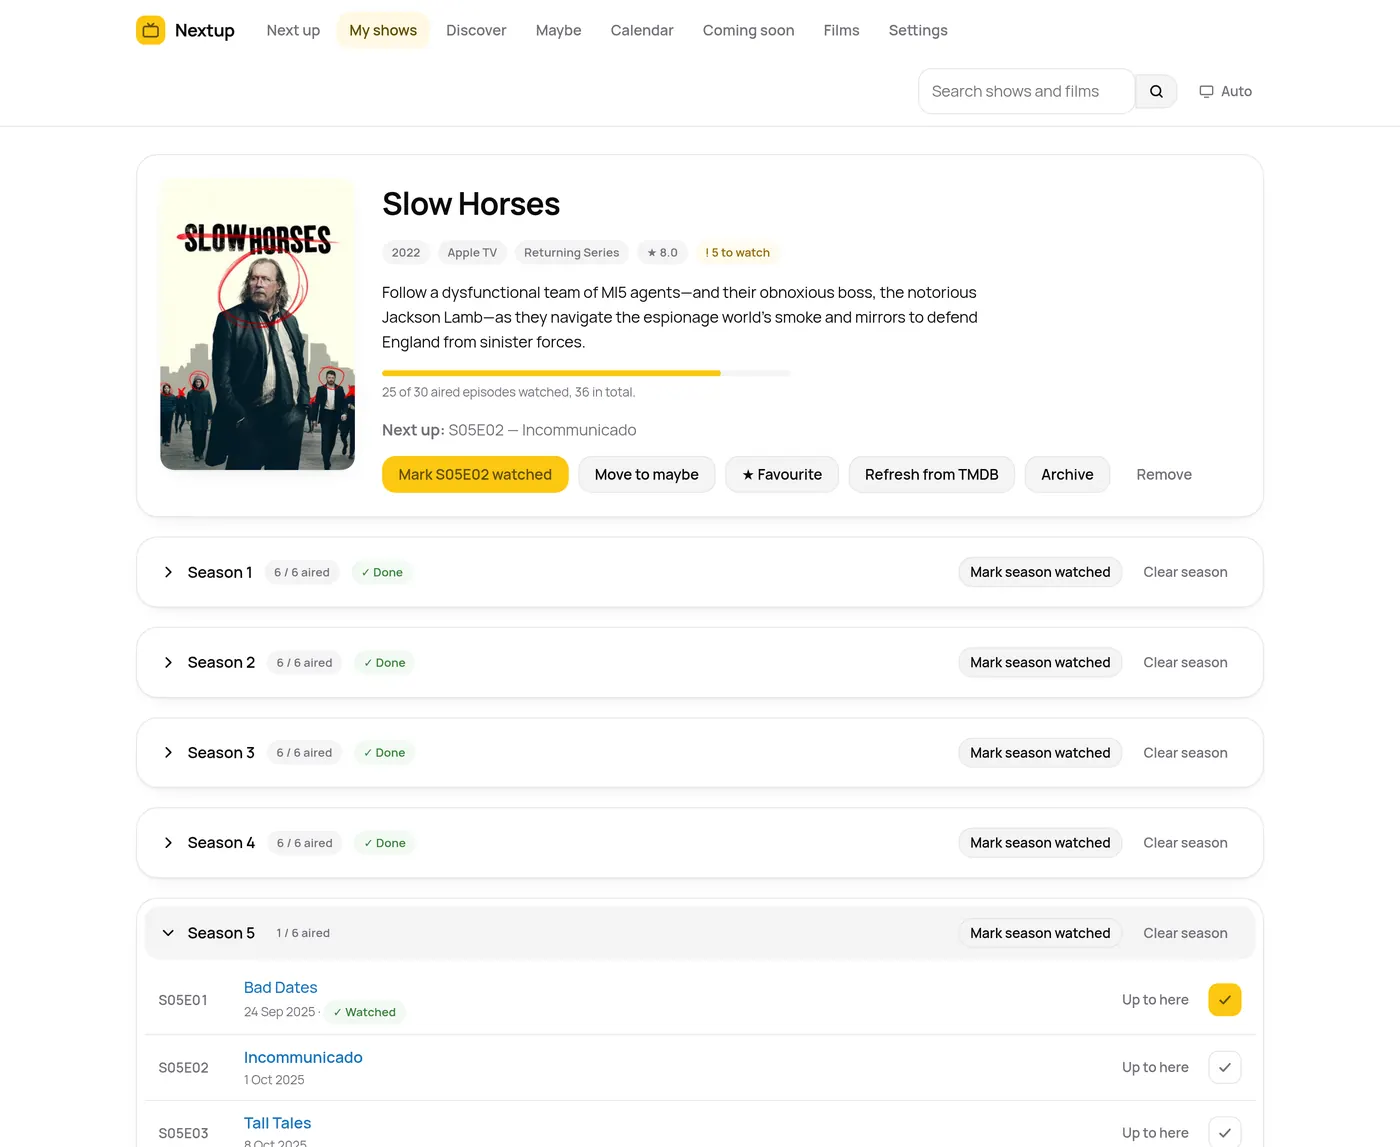
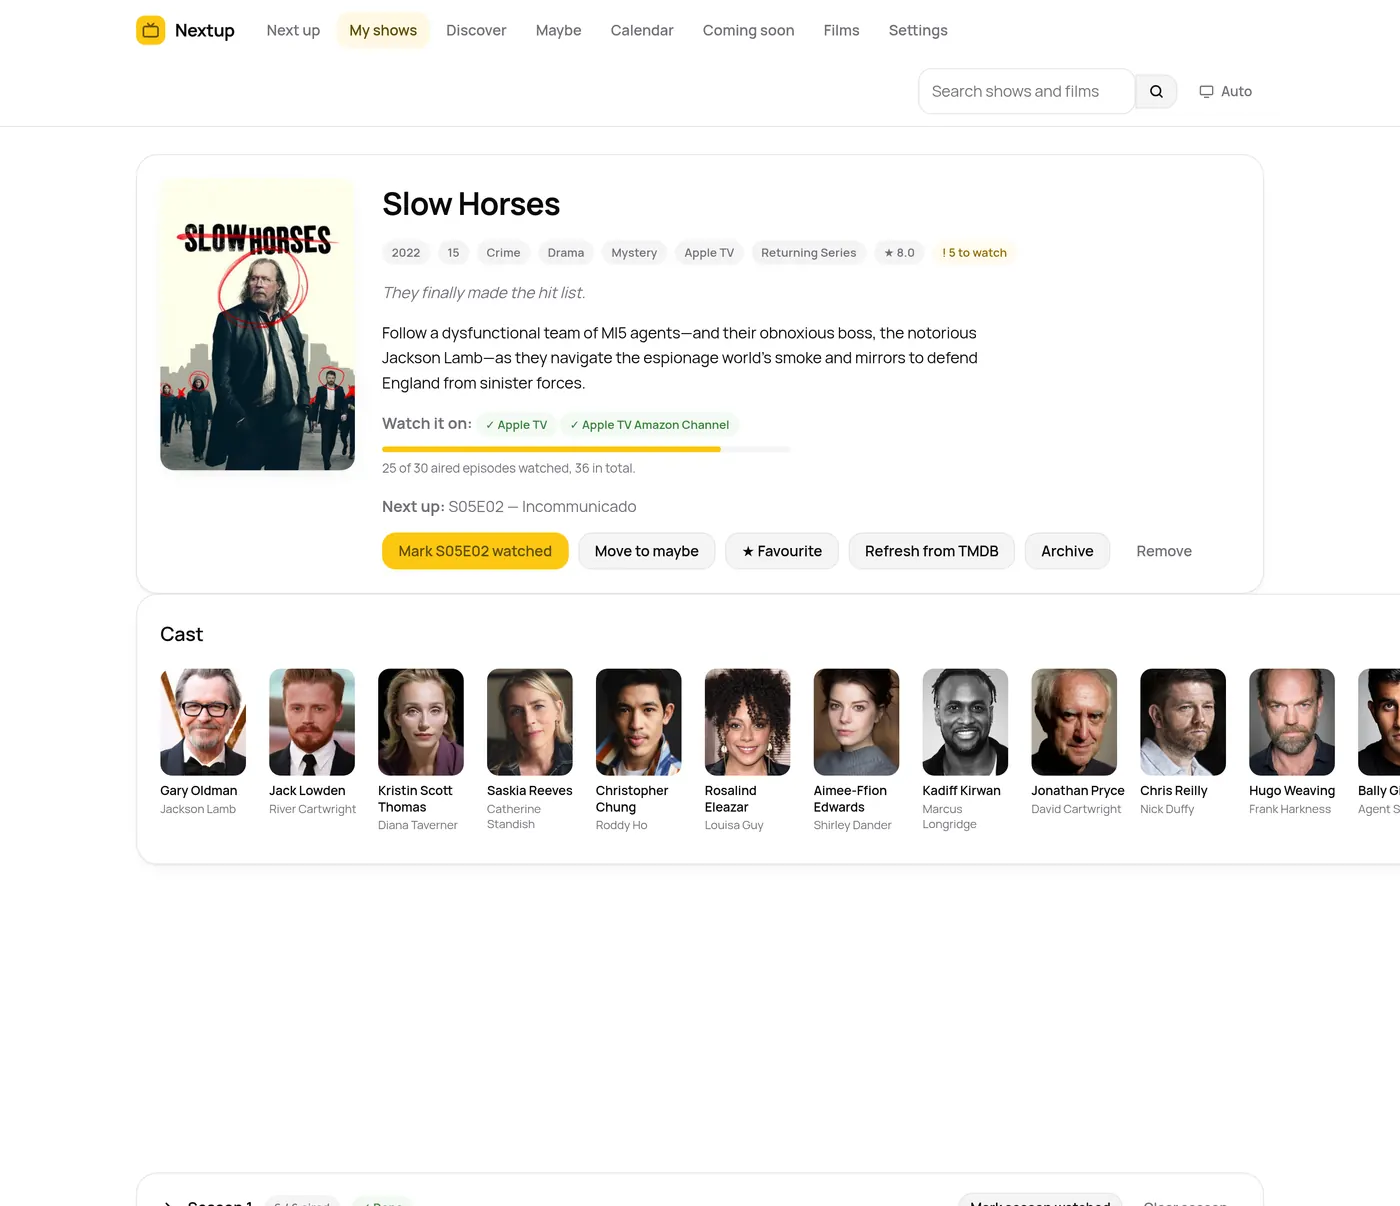
Site: cover Discover, episode pages and cast, and fix a mobile overflow
The responsive sweep found the page scrolling sideways at 440px and below,
stuck at a fixed 473px whatever the viewport. A grid track will not shrink
below its content unless told to, so the widest code block in the install
steps was setting the width of the whole list. Fixed at every level between
the list and the block, so the block now scrolls inside itself.

Accessibility: three text shades were a shade too pale on the grey bands
and were darkened, two footer headings were at the wrong level, and the
wordmark was too small to tap. The accessibility statement is written from
what the audit actually found.

Vitals: real time elements for the last-updated dates, WebSite structured
data, dateModified, an email and a Companies House link in the footer, and
an llms.txt.

diff --git a/docs/index.html b/docs/index.html
@@ -38,14 +38,27 @@
       "license": "https://www.gnu.org/licenses/gpl-3.0.html",
       "softwareVersion": "0.4.0",
       "codeRepository": "https://github.com/lightmorphic/nextup",
+      "dateModified": "2026-09-02",
       "programmingLanguage": "Python",
       "isAccessibleForFree": true,
       "offers": { "@type": "Offer", "price": "0", "priceCurrency": "GBP" },
       "author": { "@id": "https://lightmorphic.com/#organisation" }
     },
     {
+      "@type": "WebSite",
+      "@id": "https://nextup.lightmorphic.com/#website",
+      "name": "Nextup",
+      "url": "https://nextup.lightmorphic.com/",
+      "description": "A self-hosted tracker for the TV shows and films you watch.",
+      "inLanguage": "en-GB",
+      "dateModified": "2026-09-02",
+      "publisher": { "@id": "https://lightmorphic.com/#organisation" }
+    },
+    {
       "@type": "Organization",
       "@id": "https://lightmorphic.com/#organisation",
+      "email": "hello@lightmorphic.co.uk",
+      "identifier": "17423646",
       "name": "Lightmorphic Ltd",
       "url": "https://nextup.lightmorphic.com/",
       "logo": "https://nextup.lightmorphic.com/favicon.svg",
@@ -61,7 +74,10 @@
         "contactType": "customer support",
         "email": "hello@lightmorphic.co.uk"
       },
-      "sameAs": ["https://github.com/lightmorphic"]
+      "sameAs": [
+        "https://github.com/lightmorphic",
+        "https://find-and-update.company-information.service.gov.uk/company/17423646"
+      ]
     },
     {
       "@type": "FAQPage",
@@ -199,7 +215,7 @@
         <div class="shot">
           <img src="images/nextup-show.webp"
                alt="The Slow Horses page in Nextup, showing seasons one to five with tick counts, a Mark season watched button on each, and the episode list for season five open."
-               width="1400" height="1147" loading="lazy" decoding="async">
+               width="1400" height="1206" loading="lazy" decoding="async">
         </div>
       </figure>
     </div>
@@ -371,6 +387,16 @@
         <p>
           Click any episode title for its still, synopsis, air date, runtime,
           guest cast and director, with links to the episodes either side.
+        </p>
+      </div>
+      <div class="card">
+        <span class="card-mark" aria-hidden="true">
+          <svg viewBox="0 0 24 24" fill="none" stroke="currentColor" stroke-width="2" stroke-linecap="round" stroke-linejoin="round"><circle cx="9" cy="8" r="3.4"/><path d="M2.6 20a6.6 6.6 0 0 1 12.8 0"/><path d="M17 5.6a3.4 3.4 0 0 1 0 6.6M18.5 14.6A6.6 6.6 0 0 1 21.4 20"/></svg>
+        </span>
+        <h3>Who is in it</h3>
+        <p>
+          Show and film pages carry the cast with photographs, the genres, the
+          certificate, who made it, and where to watch it in the UK.
         </p>
       </div>
       <div class="card">
@@ -572,10 +598,10 @@ sudo chown -R 1000:1000 /opt/nextup</code></pre>
       <figure>
         <div class="shot">
           <img src="images/nextup-show.webp"
-               alt="A show page in Nextup, listing seasons with tick counts and the episodes of the current season."
-               width="1400" height="1147" loading="lazy" decoding="async">
+               alt="A show page in Nextup, with the cast photographs, the genres, where to watch it, and the seasons listed with tick counts."
+               width="1400" height="1206" loading="lazy" decoding="async">
         </div>
-        <figcaption>A show page, season by season.</figcaption>
+        <figcaption>A show page, with its cast and where to watch it.</figcaption>
       </figure>
     </div>
   </div>
@@ -659,7 +685,8 @@ sudo chown -R 1000:1000 /opt/nextup</code></pre>
     <div class="wrap">
       <p>
         &copy; Lightmorphic Ltd. Registered in England and Wales, company number
-        17423646. Registered office: 82A James Carter Road, Mildenhall, IP28 7DE.
+        <a href="https://find-and-update.company-information.service.gov.uk/company/17423646">17423646</a>. Registered office: 82A James Carter Road, Mildenhall, IP28 7DE.
+        Contact <a href="mailto:hello@lightmorphic.co.uk">hello@lightmorphic.co.uk</a>.
         Nextup is released under the
         <a href="https://github.com/lightmorphic/nextup/blob/main/LICENSE">GNU General Public Licence version 3</a>.
       </p>
@@ -670,7 +697,7 @@ sudo chown -R 1000:1000 /opt/nextup</code></pre>
         respective owners.
       </p>
       <!-- Update this date whenever the content of this page changes. -->
-      <p>Page last updated 2 September 2026.</p>
+      <p>Page last updated <time datetime="2026-09-02">2 September 2026</time>.</p>
       <nav aria-label="Legal">
         <a href="privacy.html">Privacy</a>
         <a href="cookies.html">Cookies</a>

diff --git a/docs/css/site.css b/docs/css/site.css
@@ -20,6 +20,7 @@
   --accent-container: #fff8e2;  --on-accent-container: #5f4c06;
 
   --brand-navy: #111827;
+  --code-fg: #f4f4f5;
   --link: #1a72ba;
   --danger: #cc372d;   --danger-bg: #fef2f1;
   --success: #367e38;  --success-bg: #f2f9f3;
@@ -120,7 +121,7 @@ p:last-child { margin-bottom: 0; }
   padding: 0.875rem 0; flex-wrap: wrap;
 }
 .wordmark {
-  display: inline-flex; align-items: center; gap: 0.625rem;
+  display: inline-flex; align-items: center; gap: 0.625rem; min-height: 44px;
   font-weight: 800; font-size: 1.1875rem; letter-spacing: -0.03em;
   color: var(--fg); text-decoration: none;
 }
@@ -189,6 +190,7 @@ section { padding: clamp(2.75rem, 6vw, 4.5rem) 0; }
   align-items: center;
 }
 .feature-lead.flip > figure { order: -1; }
+.feature-lead > * { min-width: 0; }
 
 .feature-grid {
   display: grid; gap: 1.25rem;
@@ -215,18 +217,20 @@ section { padding: clamp(2.75rem, 6vw, 4.5rem) 0; }
 
 .plain-list { margin: 0; padding: 0; list-style: none; display: grid; gap: 0.875rem; }
 .plain-list li { display: grid; grid-template-columns: 1.5rem 1fr; gap: 0.625rem; align-items: start; }
+.plain-list li > * { min-width: 0; }
 .plain-list .tick { color: var(--success); font-weight: 800; }
 .plain-list .cross { color: var(--danger); font-weight: 800; }
 
 pre {
-  margin: 0; padding: 1.125rem 1.25rem; overflow-x: auto;
-  background: var(--brand-navy); color: #f4f4f5;
+  margin: 0; padding: 1.125rem 1.25rem; overflow-x: auto; max-width: 100%;
+  background: var(--brand-navy); color: var(--code-fg);
   border-radius: var(--radius);
   font-family: ui-monospace, 'SFMono-Regular', 'Cascadia Mono', Menlo, Consolas, monospace;
   font-size: 0.9rem; line-height: 1.65;
 }
 :root[data-theme="dark"] pre, :root:not([data-theme="light"]) pre { border: 1px solid var(--border); }
 code { font-family: ui-monospace, 'SFMono-Regular', 'Cascadia Mono', Menlo, Consolas, monospace; font-size: 0.925em; }
+.prose, .card p, dl.faq dd { overflow-wrap: anywhere; }
 p code, li code, dd code {
   padding: 0.125rem 0.375rem; border-radius: 6px;
   background: var(--muted); border: 1px solid var(--border);
@@ -234,6 +238,12 @@ p code, li code, dd code {
 
 .steps { counter-reset: step; display: grid; gap: 1.5rem; margin: 0; padding: 0; list-style: none; }
 .steps > li { counter-increment: step; display: grid; grid-template-columns: 2.5rem 1fr; gap: 1rem; align-items: start; }
+/* A grid track will not shrink below its content unless told to. Without this
+   the widest code block sets the width of the whole list, and the page scrolls
+   sideways instead of the block scrolling inside itself. Every level between
+   the list and the block needs it. */
+.steps, .steps > li, .steps > li > div { min-width: 0; }
+.steps > li > div > * { min-width: 0; max-width: 100%; }
 .steps > li::before {
   content: counter(step);
   width: 2.5rem; height: 2.5rem; border-radius: 50%;
@@ -269,6 +279,7 @@ dl.faq dd { margin: 0; color: var(--muted-fg); max-width: var(--measure); }
   grid-template-columns: 1.4fr 1fr 1fr;
   padding-bottom: 2.5rem;
 }
+.footer-cols > * { min-width: 0; }
 .footer-cols h3 {
   font-size: 0.75rem; text-transform: uppercase; letter-spacing: 0.07em;
   color: var(--muted-fg); margin-bottom: 0.875rem;

diff --git a/docs/accessibility.html b/docs/accessibility.html
@@ -162,12 +162,13 @@
     <div class="wrap">
       <p>
         &copy; Lightmorphic Ltd. Registered in England and Wales, company number
-        17423646. Registered office: 82A James Carter Road, Mildenhall, IP28 7DE.
+        <a href="https://find-and-update.company-information.service.gov.uk/company/17423646">17423646</a>. Registered office: 82A James Carter Road, Mildenhall, IP28 7DE.
+        Contact <a href="mailto:hello@lightmorphic.co.uk">hello@lightmorphic.co.uk</a>.
         Nextup is released under the
         <a href="https://github.com/lightmorphic/nextup/blob/main/LICENSE">GNU General Public Licence version 3</a>.
       </p>
       <!-- Update this date whenever the content of this page changes. -->
-      <p>Page last updated 2 September 2026.</p>
+      <p>Page last updated <time datetime="2026-09-02">2 September 2026</time>.</p>
       <nav aria-label="Legal">
         <a href="privacy.html">Privacy</a>
         <a href="cookies.html">Cookies</a>

diff --git a/docs/complaints.html b/docs/complaints.html
@@ -127,12 +127,13 @@
     <div class="wrap">
       <p>
         &copy; Lightmorphic Ltd. Registered in England and Wales, company number
-        17423646. Registered office: 82A James Carter Road, Mildenhall, IP28 7DE.
+        <a href="https://find-and-update.company-information.service.gov.uk/company/17423646">17423646</a>. Registered office: 82A James Carter Road, Mildenhall, IP28 7DE.
+        Contact <a href="mailto:hello@lightmorphic.co.uk">hello@lightmorphic.co.uk</a>.
         Nextup is released under the
         <a href="https://github.com/lightmorphic/nextup/blob/main/LICENSE">GNU General Public Licence version 3</a>.
       </p>
       <!-- Update this date whenever the content of this page changes. -->
-      <p>Page last updated 2 September 2026.</p>
+      <p>Page last updated <time datetime="2026-09-02">2 September 2026</time>.</p>
       <nav aria-label="Legal">
         <a href="privacy.html">Privacy</a>
         <a href="cookies.html">Cookies</a>

diff --git a/docs/cookies.html b/docs/cookies.html
@@ -128,12 +128,13 @@
     <div class="wrap">
       <p>
         &copy; Lightmorphic Ltd. Registered in England and Wales, company number
-        17423646. Registered office: 82A James Carter Road, Mildenhall, IP28 7DE.
+        <a href="https://find-and-update.company-information.service.gov.uk/company/17423646">17423646</a>. Registered office: 82A James Carter Road, Mildenhall, IP28 7DE.
+        Contact <a href="mailto:hello@lightmorphic.co.uk">hello@lightmorphic.co.uk</a>.
         Nextup is released under the
         <a href="https://github.com/lightmorphic/nextup/blob/main/LICENSE">GNU General Public Licence version 3</a>.
       </p>
       <!-- Update this date whenever the content of this page changes. -->
-      <p>Page last updated 2 September 2026.</p>
+      <p>Page last updated <time datetime="2026-09-02">2 September 2026</time>.</p>
       <nav aria-label="Legal">
         <a href="privacy.html">Privacy</a>
         <a href="cookies.html">Cookies</a>

diff --git a/docs/privacy.html b/docs/privacy.html
@@ -148,12 +148,13 @@
     <div class="wrap">
       <p>
         &copy; Lightmorphic Ltd. Registered in England and Wales, company number
-        17423646. Registered office: 82A James Carter Road, Mildenhall, IP28 7DE.
+        <a href="https://find-and-update.company-information.service.gov.uk/company/17423646">17423646</a>. Registered office: 82A James Carter Road, Mildenhall, IP28 7DE.
+        Contact <a href="mailto:hello@lightmorphic.co.uk">hello@lightmorphic.co.uk</a>.
         Nextup is released under the
         <a href="https://github.com/lightmorphic/nextup/blob/main/LICENSE">GNU General Public Licence version 3</a>.
       </p>
       <!-- Update this date whenever the content of this page changes. -->
-      <p>Page last updated 2 September 2026.</p>
+      <p>Page last updated <time datetime="2026-09-02">2 September 2026</time>.</p>
       <nav aria-label="Legal">
         <a href="privacy.html">Privacy</a>
         <a href="cookies.html">Cookies</a>

diff --git a/docs/terms.html b/docs/terms.html
@@ -148,12 +148,13 @@
     <div class="wrap">
       <p>
         &copy; Lightmorphic Ltd. Registered in England and Wales, company number
-        17423646. Registered office: 82A James Carter Road, Mildenhall, IP28 7DE.
+        <a href="https://find-and-update.company-information.service.gov.uk/company/17423646">17423646</a>. Registered office: 82A James Carter Road, Mildenhall, IP28 7DE.
+        Contact <a href="mailto:hello@lightmorphic.co.uk">hello@lightmorphic.co.uk</a>.
         Nextup is released under the
         <a href="https://github.com/lightmorphic/nextup/blob/main/LICENSE">GNU General Public Licence version 3</a>.
       </p>
       <!-- Update this date whenever the content of this page changes. -->
-      <p>Page last updated 2 September 2026.</p>
+      <p>Page last updated <time datetime="2026-09-02">2 September 2026</time>.</p>
       <nav aria-label="Legal">
         <a href="privacy.html">Privacy</a>
         <a href="cookies.html">Cookies</a>

diff --git a/docs/404.html b/docs/404.html
@@ -49,10 +49,12 @@
     <div class="wrap">
       <p>
         &copy; Lightmorphic Ltd. Registered in England and Wales, company number
-        17423646. Registered office: 82A James Carter Road, Mildenhall, IP28 7DE.
+        <a href="https://find-and-update.company-information.service.gov.uk/company/17423646">17423646</a>. Registered office: 82A James Carter Road, Mildenhall, IP28 7DE.
+        Contact <a href="mailto:hello@lightmorphic.co.uk">hello@lightmorphic.co.uk</a>.
         Nextup is released under the
         <a href="https://github.com/lightmorphic/nextup/blob/main/LICENSE">GNU General Public Licence version 3</a>.
       </p>
+      <p>Page last updated <time datetime="2026-09-02">2 September 2026</time>.</p>
       <nav aria-label="Legal">
         <a href="/privacy.html">Privacy</a>
         <a href="/cookies.html">Cookies</a>
